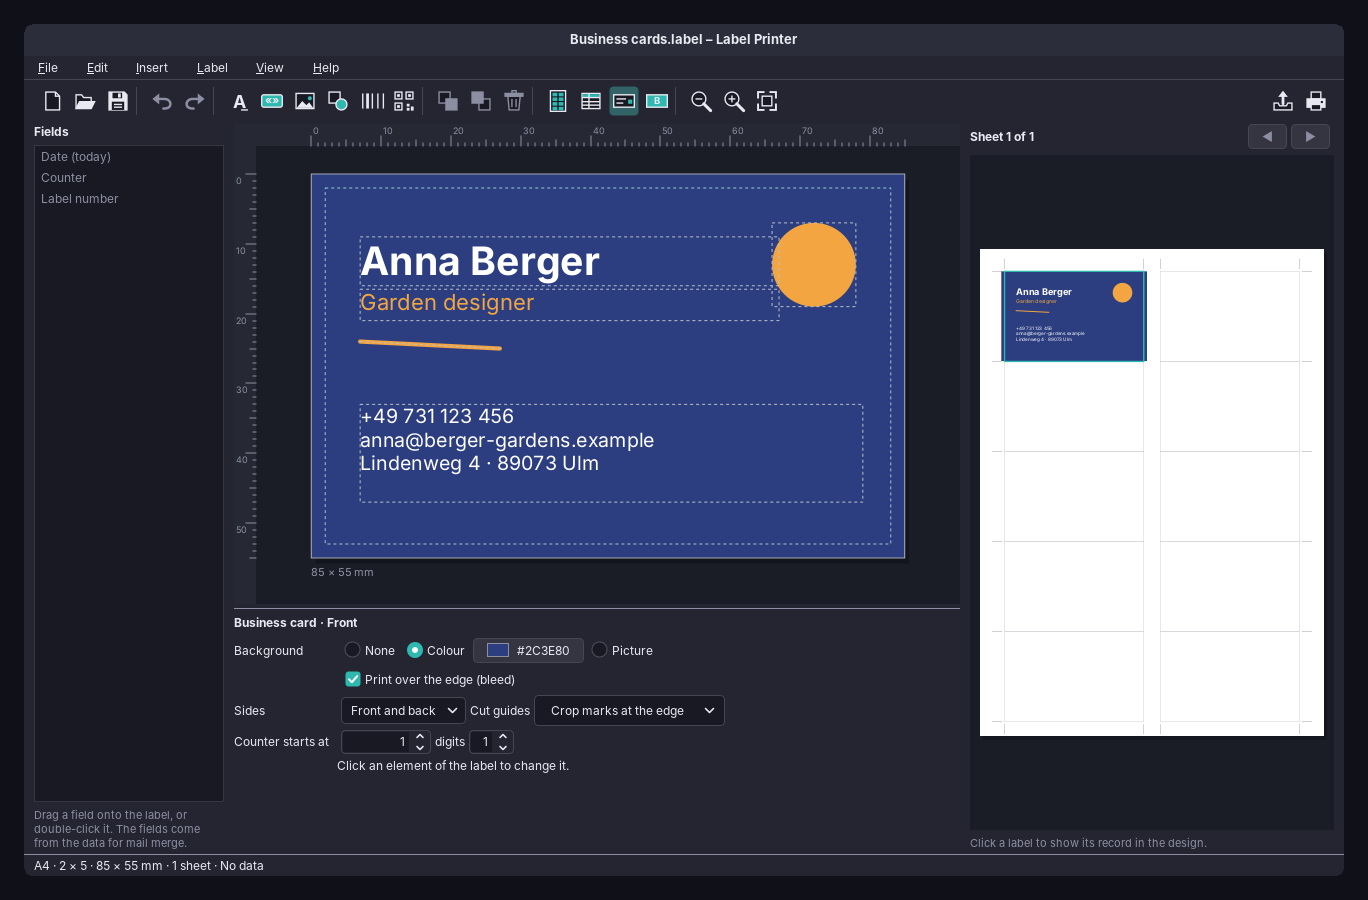
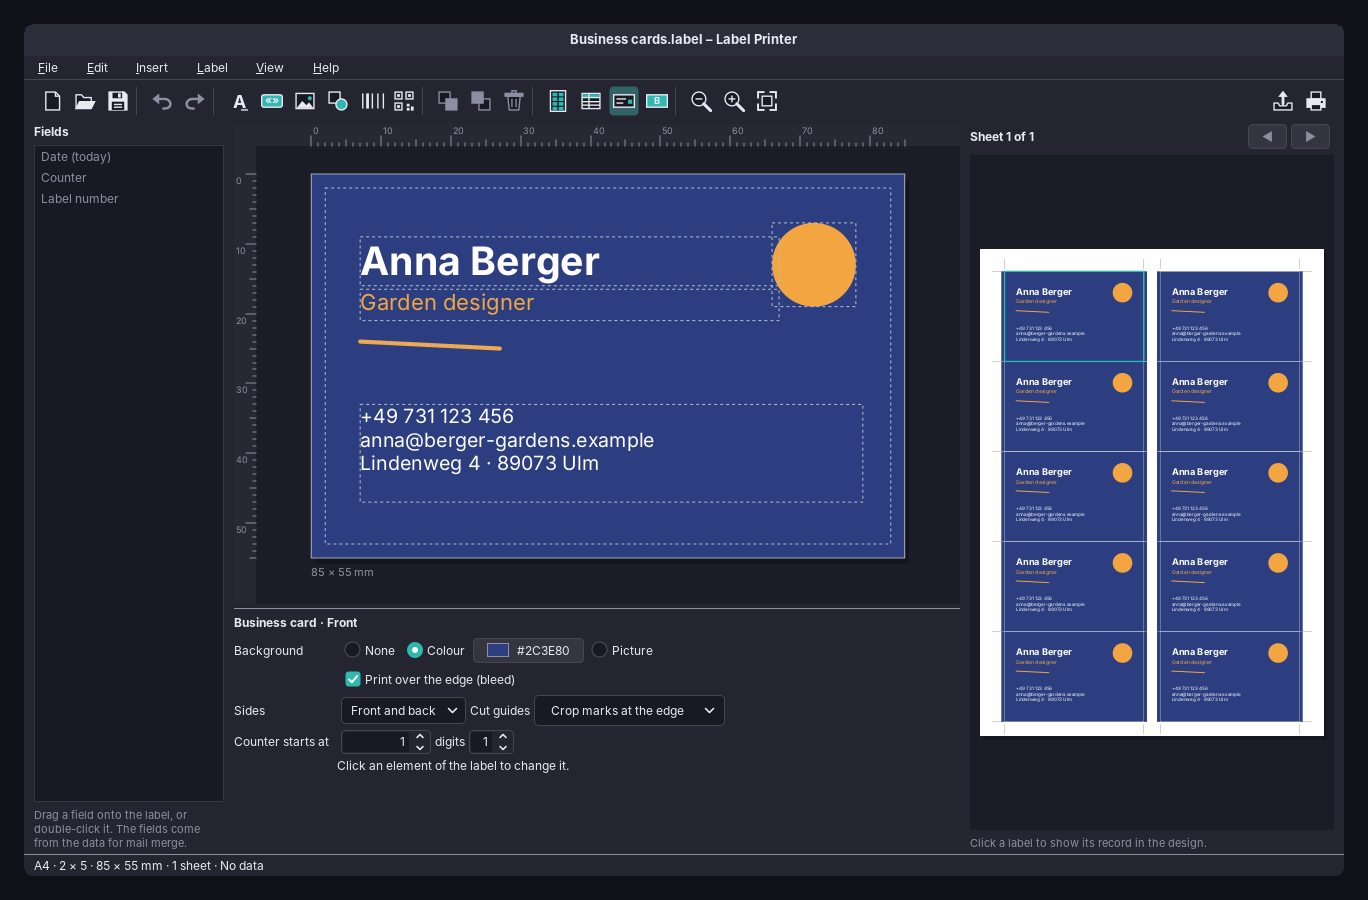
fix: without data the label fills the whole sheet in the preview and the print
A business card or a return address has no address list, so the preview
showed one card and printing 'all' gave one label. Now every free
position of the sheet gets the label, with the counter counting on;
'only the current record' still prints one.

Claude-Session: https://claude.ai/code/session_017Pd6NbiCm7bQBe1LcnBf8t

Changed region(s): [[0.7061, 0.28, 0.9518, 0.8089]]

diff --git a/src/main/java/eu/amadeos/apps/labelprinter/ui/main/MainPresenter.java b/src/main/java/eu/amadeos/apps/labelprinter/ui/main/MainPresenter.java
@@ -186,7 +186,7 @@ public final class MainPresenter {
         List<Merge.Label> labels = labels();
         record = Math.max(0, Math.min(record, labels.size() - 1));
         LabelDesign d = doc.design();
-        PrintPlan preview = new PrintPlan(d.sheet(), labels, 0);
+        PrintPlan preview = new PrintPlan(d.sheet(), table.isEmpty() ? withoutData(0) : labels, 0);
         previewSheet = Math.max(0, Math.min(previewSheet, preview.sheets() - 1));
         int highlight = record / d.sheet().count() == previewSheet ? record % d.sheet().count() : -1;
         String recordText = table.isEmpty() ? "" : msg.format("record.of", record + 1, labels.size());
@@ -664,11 +664,28 @@ public final class MainPresenter {
 
     // ---- printing ---------------------------------------------------------------------------------------------
 
+    /**
+     * Without data, every free position of the sheet gets the label, such as a sheet of the same business card;
+     * a «Counter» counts on from label to label.
+     */
+    private List<Merge.Label> withoutData(int start) {
+        LabelDesign d = doc.design();
+        String date = LocalDate.now(s.clock()).format(java.time.format.DateTimeFormatter.ofLocalizedDate(
+                java.time.format.FormatStyle.MEDIUM).withLocale(msg.locale()));
+        List<Merge.Label> labels = new ArrayList<>();
+        for (int n = 1; n <= d.sheet().count() - Math.max(0, start); n++) {
+            labels.add(Merge.label(table, doc.merge(), d, -1, n, date));
+        }
+        return labels;
+    }
+
     /** The plan for a print mode, starting at a position of the first sheet. */
     PrintPlan plan(PrintChoice.Mode mode, int start) {
         List<Merge.Label> labels = labels();
         SheetTemplate sheet = doc.design().sheet();
+        start = Math.max(0, Math.min(sheet.count() - 1, start));
         Merge.Label current = labels.get(Math.min(record, labels.size() - 1));
+        if (table.isEmpty() && mode != PrintChoice.Mode.CURRENT) return new PrintPlan(sheet, withoutData(start), start);
         return switch (mode) {
             case ALL -> new PrintPlan(sheet, labels, start);
             case CURRENT -> new PrintPlan(sheet, List.of(current), start);
@@ -682,7 +699,7 @@ public final class MainPresenter {
 
     public void print() {
         List<String> printers = PrintJobs.printerNames();
-        MainView.PrintRequest request = new MainView.PrintRequest(doc.design(), mode -> plan(mode, 0), printers,
+        MainView.PrintRequest request = new MainView.PrintRequest(doc.design(), this::plan, printers,
                 s.prefs().lastPrinter(), s.prefs()::offset, this::printTestPage);
         view.choosePrint(request).ifPresent(choice -> {
             if (choice.printer() != null) {

diff --git a/src/test/java/eu/amadeos/apps/labelprinter/ui/dialogs/DialogsTest.java b/src/test/java/eu/amadeos/apps/labelprinter/ui/dialogs/DialogsTest.java
@@ -248,11 +248,11 @@ class DialogsTest {
         DataTable data = new DataTable("d", List.of("No"), java.util.stream.IntStream.range(0, 30)
                 .mapToObj(i -> List.of(Integer.toString(i))).toList());
         List<Merge.Label> labels = Merge.labels(data, MergeSettings.ALL, design, LocalDate.now(), Locale.UK);
-        return new MainView.PrintRequest(design, mode -> switch (mode) {
-            case ALL -> new PrintPlan(sheet, labels, 0);
-            case CURRENT -> new PrintPlan(sheet, labels.subList(0, 1), 0);
-            case FILL_SHEET -> new PrintPlan(sheet, java.util.Collections.nCopies(sheet.count(), labels.getFirst()),
-                    0);
+        return new MainView.PrintRequest(design, (mode, start) -> switch (mode) {
+            case ALL -> new PrintPlan(sheet, labels, start);
+            case CURRENT -> new PrintPlan(sheet, labels.subList(0, 1), start);
+            case FILL_SHEET -> new PrintPlan(sheet, java.util.Collections.nCopies(sheet.count() - start,
+                    labels.getFirst()), start);
         }, List.of("Office laser", "Photo printer"), Optional.of("Photo printer"),
                 printer -> printer.equals("Photo printer") ? new double[]{0.5, -1} : new double[]{0, 0}, tests::add);
     }

diff --git a/src/main/java/eu/amadeos/apps/labelprinter/ui/dialogs/PrintDialog.java b/src/main/java/eu/amadeos/apps/labelprinter/ui/dialogs/PrintDialog.java
@@ -137,7 +137,7 @@ public final class PrintDialog extends JDialog {
             r.last().filter(r.printers()::contains).ifPresent(printer::setSelectedItem);
             row.setModel(new javax.swing.SpinnerNumberModel(1, 1, template.rows(), 1));
             column.setModel(new javax.swing.SpinnerNumberModel(1, 1, template.columns(), 1));
-            int records = r.plans().apply(PrintChoice.Mode.ALL).labels().size();
+            int records = r.plans().apply(PrintChoice.Mode.ALL, 0).labels().size();
             all.setText(Mnemonics.strip(msg.format("print.all.count", records)));
         } finally {
             updating = false;
@@ -182,13 +182,7 @@ public final class PrintDialog extends JDialog {
 
     /** The plan as it will print, with the first free position. */
     PrintPlan plan() {
-        PrintChoice.Mode mode = mode();
-        PrintPlan base = request.plans().apply(mode);
-        if (mode == PrintChoice.Mode.FILL_SHEET) {
-            return new PrintPlan(template, base.labels().subList(0, Math.max(1, template.count() - start())),
-                    start());
-        }
-        return new PrintPlan(template, base.labels(), start());
+        return request.plans().apply(mode(), start());
     }
 
     void update() {

diff --git a/src/test/java/eu/amadeos/apps/labelprinter/ui/main/MainPresenterTest.java b/src/test/java/eu/amadeos/apps/labelprinter/ui/main/MainPresenterTest.java
@@ -419,10 +419,23 @@ class MainPresenterTest {
     }
 
     @Test
+    void withoutDataTheLabelFillsTheSheet() {
+        int count = state().design().sheet().count();
+        assertEquals(count, state().preview().labels().size());
+        assertEquals(1, state().preview().sheets());
+        PrintPlan all = p.plan(PrintChoice.Mode.ALL, 3);
+        assertEquals(count - 3, all.labels().size());
+        assertEquals(1, all.sheets());
+        assertEquals(4, all.labels().get(3).number());
+    }
+
+    @Test
     void printingAsksTheWindow() {
         p.print();
         assertTrue(view.printRequest != null);
-        assertEquals(1, view.printRequest.plans().apply(PrintChoice.Mode.ALL).labels().size());
+        int count = state().design().sheet().count();
+        assertEquals(count, view.printRequest.plans().apply(PrintChoice.Mode.ALL, 0).labels().size());
+        assertEquals(1, view.printRequest.plans().apply(PrintChoice.Mode.CURRENT, 0).labels().size());
         assertArrayEquals(new double[]{0, 0}, view.printRequest.offsets().apply("Any"));
     }
 

diff --git a/src/main/java/eu/amadeos/apps/labelprinter/ui/main/MainView.java b/src/main/java/eu/amadeos/apps/labelprinter/ui/main/MainView.java
@@ -53,13 +53,13 @@ public interface MainView {
     /**
      * What the print window needs.
      *
-     * @param plans     the plan for a mode, starting at position 0
+     * @param plans     the plan for a mode, starting at a position of the first sheet (from 0)
      * @param printers  the printers' names
      * @param last      the printer chosen last
      * @param offsets   the saved adjustment of a printer, {dx, dy}
      * @param testPage  prints the test page with the printer and adjustment of a choice
      */
-    record PrintRequest(LabelDesign design, Function<PrintChoice.Mode, PrintPlan> plans, List<String> printers,
+    record PrintRequest(LabelDesign design, java.util.function.BiFunction<PrintChoice.Mode, Integer, PrintPlan> plans, List<String> printers,
                         Optional<String> last, Function<String, double[]> offsets,
                         java.util.function.Consumer<PrintChoice> testPage) {
     }
